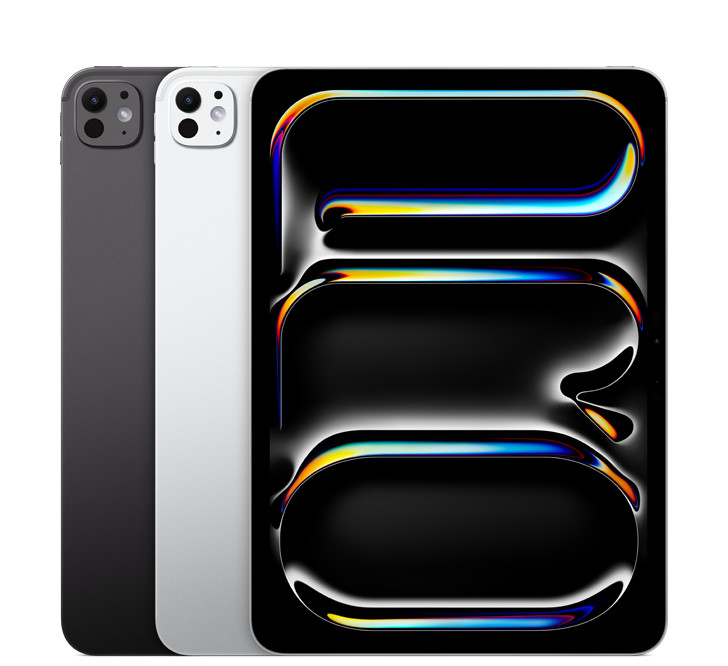
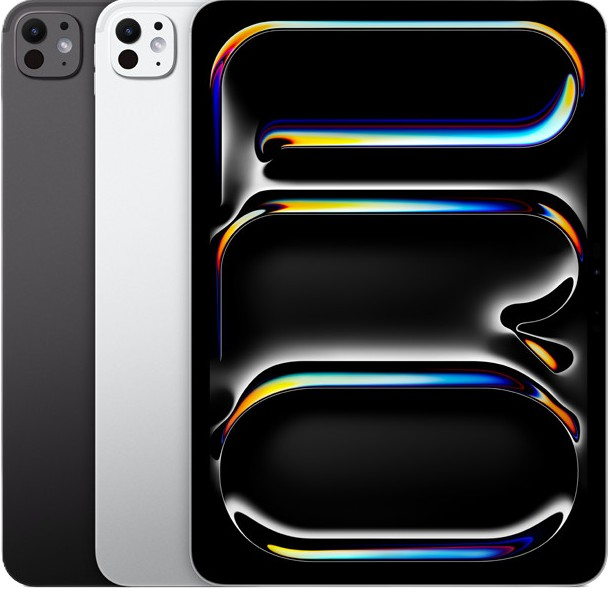
Update all pictures for the ipad. Remove all picture background.

diff --git a/ipad/ipadair.html b/ipad/ipadair.html
@@ -12,7 +12,7 @@
 
     <header class="apple-header">
         <div class="header-inner">
-            <a href="../main.html" class="back-link">← Back to Store</a>
+            <a href="../ipad/ipad.html" class="back-link">← Back to iPad</a>
             <a href="../index.html" class="logo">TechStore</a>
             <nav class="main-nav">
                 <a href="../main.html">Store</a>
@@ -37,9 +37,9 @@
     <section class="product-intro-picture fade-on-scroll">
         <h2>iPad Air</h2>
         <h1 class="product-intro-title">Fresh Air.</h1>
-        <img src="../image/ipad/ipadair.jpg" alt="iPad Air">
+        <img src="../image/ipad/ipadair.png" alt="iPad Air">
         <h4>
-            Powerful. Colorful. Wonderful.<br>
+            <mark>Powerful. Colorful. Wonderful.</mark><br>
             Now in two sizes for the first time.
         </h4>
     </section>
@@ -49,7 +49,7 @@
 
             <section class="gallery">
                 <div class="gallery-wrapper">
-                    <img id="main-product-img" src="../image/ipad/ipadair.jpg" alt="iPad Air">
+                    <img id="main-product-img" src="../image/ipad/ipadair.png" alt="iPad Air">
                 </div>
             </section>
 
@@ -59,16 +59,16 @@
                 <h3>Finish. <span id="color-name" class="gray-text">Select a color</span></h3>
                 <div class="swatch-row">
                     <div class="swatch-circle" style="background: #D1D1E0;"
-                        data-image="../image/ipad/ipad-air-purple.webp" title="Purple"></div>
+                        data-image="../image/ipad/ipad-air-purple.png" title="Purple"></div>
 
                     <div class="swatch-circle" style="background: #F0EAD6;"
-                        data-image="../image/ipad/ipad-air-starlight.webp" title="Starlight"></div>
+                        data-image="../image/ipad/ipad-air-starlight.png" title="Starlight"></div>
 
                     <div class="swatch-circle" style="background: #535355;"
-                        data-image="../image/ipad/ipad-air-space-gray.webp" title="Space Gray"></div>
+                        data-image="../image/ipad/ipad-air-space-gray.png" title="Space Gray"></div>
 
                     <div class="swatch-circle" style="background: #B9C8D6;"
-                        data-image="../image/ipad/ipad-air-blue.webp" title="Blue"></div>
+                        data-image="../image/ipad/ipad-air-blue.png" title="Blue"></div>
                 </div>
 
                 <h3>Storage. <span class="gray-text">How much space do you need?</span></h3>

diff --git a/ipad/ipadpro.html b/ipad/ipadpro.html
@@ -12,17 +12,15 @@
 
         <header class="apple-header">
         <div class="header-inner">
-            <a href="../iphone/iphone.html" class="back-link">← Back to iPhone</a>
+            <a href="../ipad/ipad.html" class="back-link">← Back to iPad</a>
             <a href="../index.html" class="logo">TechStore</a>
             <nav class="main-nav">
                 <a href="../main.html">Store</a>
-                <a href="iphone.html" class="active">iPhone</a>
-                <a href="../ipad/ipad.html">iPad</a>
+                <a href="iphone.html">iPhone</a>
+                <a href="../ipad/ipad.html" class="active">iPad</a>
                 <a href="../mac/mac.html">Mac</a>
                 <a href="../support.html">Support</a>
             </nav>
-            <div class="cart">
-                <a href="../cart.html">🛒 <span id="cart-count">0</span></a>
             <div class="cart">
                 <a href="../cart.html">🛒 <span id="cart-count">0</span></a>
             </div>
@@ -41,10 +39,10 @@
         <h1 class="product-intro-title">Thinpossible.</h1>
         <img src="../image/ipad/ipadpro.jpg" alt="iPad Pro">
         <h4>
-            Unbelievably thin. Outrageously powerful.<br>
-            Built for those who demand more.
+            <mark>Unbelievably thin. </mark>Outrageously powerful.<br>
+            Built for those who <mark>demand more.</mark>
         </h4>
-    </section>
+    </section><br><br><br>
 
     <section class="product-information fade-on-scroll">
         <main class="purchase-container">
@@ -61,10 +59,10 @@
                 <h3>Finish. <span id="color-name" class="gray-text">Select a color</span></h3>
                 <div class="swatch-row">
                     <div class="swatch-circle" style="background:#C0C0C0"
-                        data-image="../image/ipad/ipad-pro-finish-silver.webp" title="Silver"></div>
+                        data-image="../image/ipad/ipad-pro-finish-silver.png" title="Silver"></div>
 
                     <div class="swatch-circle" style="background:#1D1D1F"
-                        data-image="../image/ipad/ipad-pro-finish-spaceblack.webp" title="Space Black"></div>
+                        data-image="../image/ipad/ipad-pro-finish-spaceblack.png" title="Space Black"></div>
                 </div>
 
                 <h3>Storage. <span class="gray-text">How much space do you need?</span></h3>

diff --git a/ipad/ipadmini.html b/ipad/ipadmini.html
@@ -39,8 +39,8 @@
         <h1 class="product-intro-title">Mega Power. Mini Sized.</h1>
         <img src="../image/ipad/ipadmini.png" alt="iPad mini">
         <h4>
-            The beloved iPad mini is more powerful than ever.<br>
-            Fits in the palm of your hand. Ready for your biggest ideas.
+            The beloved <mark>iPad mini </mark>is more powerful than ever.<br>
+            Fits in the palm of your hand. Ready for your <mark>biggest ideas</mark>.
         </h4>
     </section>
 
@@ -59,16 +59,16 @@
                 <h3>Finish. <span id="color-name" class="gray-text">Select a color</span></h3>
                 <div class="swatch-row">
                     <div class="swatch-circle" style="background: #535355;"
-                        data-image="../image/ipad/ipad-mini-space-gray.webp" title="Space Gray"></div>
+                        data-image="../image/ipad/ipad-mini-space-gray.png" title="Space Gray"></div>
 
                     <div class="swatch-circle" style="background: #B9C8D6;"
-                        data-image="../image/ipad/ipad-mini-blue.webp" title="Blue"></div>
+                        data-image="../image/ipad/ipad-mini-blue.png" title="Blue"></div>
 
                     <div class="swatch-circle" style="background: #B6B3C9;"
-                        data-image="../image/ipad/ipad-mini-purple.webp" title="Purple"></div>
+                        data-image="../image/ipad/ipad-mini-purple.png" title="Purple"></div>
 
                     <div class="swatch-circle" style="background: #F0EAD6;"
-                        data-image="../image/ipad/ipad-mini-starlight.webp" title="Starlight"></div>
+                        data-image="../image/ipad/ipad-mini-starlight.png" title="Starlight"></div>
                 </div>
 
                 <h3>Storage. <span class="gray-text">How much space do you need?</span></h3>

diff --git a/ipad/ipadseries.html b/ipad/ipadseries.html
@@ -39,8 +39,8 @@
         <h1 class="product-intro-title">Lovable. Drawable. Magical.</h1>
         <img src="../image/ipad/ipadseries.png" alt="iPad">
         <h4>
-            Colorfully reimagined and more versatile than ever.<br>
-            With an all-screen design and four gorgeous colors.
+            Colorfully <mark>reimagined and more versatile</mark> than ever.<br>
+            With an <mark>all-screen design</mark> and four gorgeous colors.
         </h4>
     </section>
 
@@ -58,16 +58,16 @@
 
                 <h3>Finish. <span id="color-name" class="gray-text">Select a color</span></h3>
                 <div class="swatch-row">
-                    <div class="swatch-circle" style="background: #4F7797;" data-image="../image/ipad/ipad-blue.webp"
+                    <div class="swatch-circle" style="background: #4F7797;" data-image="../image/ipad/ipad-blue.png"
                         title="Blue"></div>
 
-                    <div class="swatch-circle" style="background: #E2E4E1;" data-image="../image/ipad/ipad-silver.webp"
+                    <div class="swatch-circle" style="background: #E2E4E1;" data-image="../image/ipad/ipad-silver.png"
                         title="Silver"></div>
 
-                    <div class="swatch-circle" style="background: #E5556E;" data-image="../image/ipad/ipad-pink.webp"
+                    <div class="swatch-circle" style="background: #E5556E;" data-image="../image/ipad/ipad-pink.png"
                         title="Pink"></div>
 
-                    <div class="swatch-circle" style="background: #F4D03F;" data-image="../image/ipad/ipad-yellow.webp"
+                    <div class="swatch-circle" style="background: #F4D03F;" data-image="../image/ipad/ipad-yellow.png"
                         title="Yellow"></div>
                 </div>
 

diff --git a/styles.css b/styles.css
@@ -14,6 +14,10 @@ body {
     background-color: #f5f5f7;
 }
 
+body mark {
+    background: transparent;
+}
+
 a {
     text-decoration: none;
     color: inherit;
@@ -48,13 +52,18 @@ a {
 }
 
 .logo {
+    position: absolute;
     font-weight: 600;
     font-size: 24px;
+    left: 50%;
+    transform: translateX(-50%);
 }
 
 .main-nav {
     display: flex;
     gap: 28px;
+    margin-left: auto;
+    margin-right: 30px;
 }
 
 .main-nav a {
@@ -254,10 +263,6 @@ a {
     background-color: white;
 }
 
-.product-intro-page mark {
-    background: transparent;
-}
-
 .product-intro-picture {
     background-image: linear-gradient(to bottom, #D7EBF6, #FFFFFF);
     display: flex;
@@ -266,6 +271,7 @@ a {
     width: 100vw;
     align-items: center;
     text-align: center;
+    margin-bottom: 150px;
 }
 
 .product-intro-picture h2 {
@@ -829,6 +835,15 @@ a {
     border: 1px solid #d2d2d7;
     outline: none;
     transition: border-color 0.2s, box-shadow 0.2s;
+}
+
+.submit-form-btn {
+    padding: 10px;
+    border-radius: 100px;
+    border: 0px;
+    background-color: #0071e3;
+    color: white;
+    font-size: 16px;
 }
 
 /* =========================

diff --git a/support.html b/support.html
@@ -12,7 +12,7 @@
 <body class="product-page">
     <header class="apple-header">
         <div class="header-inner">
-            <a href="main.html" class="back-link">← Back</a>
+            <a href="main.html" class="back-link">← Back To Store</a>
             <a href="index.html" class="logo">TechStore</a>
             <nav class="main-nav">
                 <a href="main.html">Store</a>
@@ -51,7 +51,7 @@
             <textarea placeholder="How can we help?" rows="4" required
                 style="padding: 16px; border: 1px solid #d2d2d7; border-radius: 12px; font-size: 16px; font-family: inherit; resize: none;"></textarea>
 
-            <button type="submit" class="add-to-cart-btn" style="margin-top: 10px; cursor: pointer;">
+            <button type="submit" class="submit-form-btn" style="margin-top: 10px; cursor: pointer;">
                 Submit Request
             </button>
         </form>

diff --git a/ipad/ipad.html b/ipad/ipad.html
@@ -27,7 +27,7 @@
         </div>
     </header>
 
-    <section class="product-hero">
+    <section class="product-hero fade-on-scroll">
         <h1>iPad</h1>
         <p>Explore the iPad line-up.</p>
     </section>
@@ -51,7 +51,7 @@
 
             <div class="product-card fade-on-scroll">
                 <div class="product-image-container">
-                    <img src="../image/ipad/ipadair.jpg" alt="iPad Air" class="product-img">
+                    <img src="../image/ipad/ipadair.png" alt="iPad Air" class="product-img">
                 </div>
                 <div class="product-info">
                     <h2 class="product-name">iPad Air</h2>
